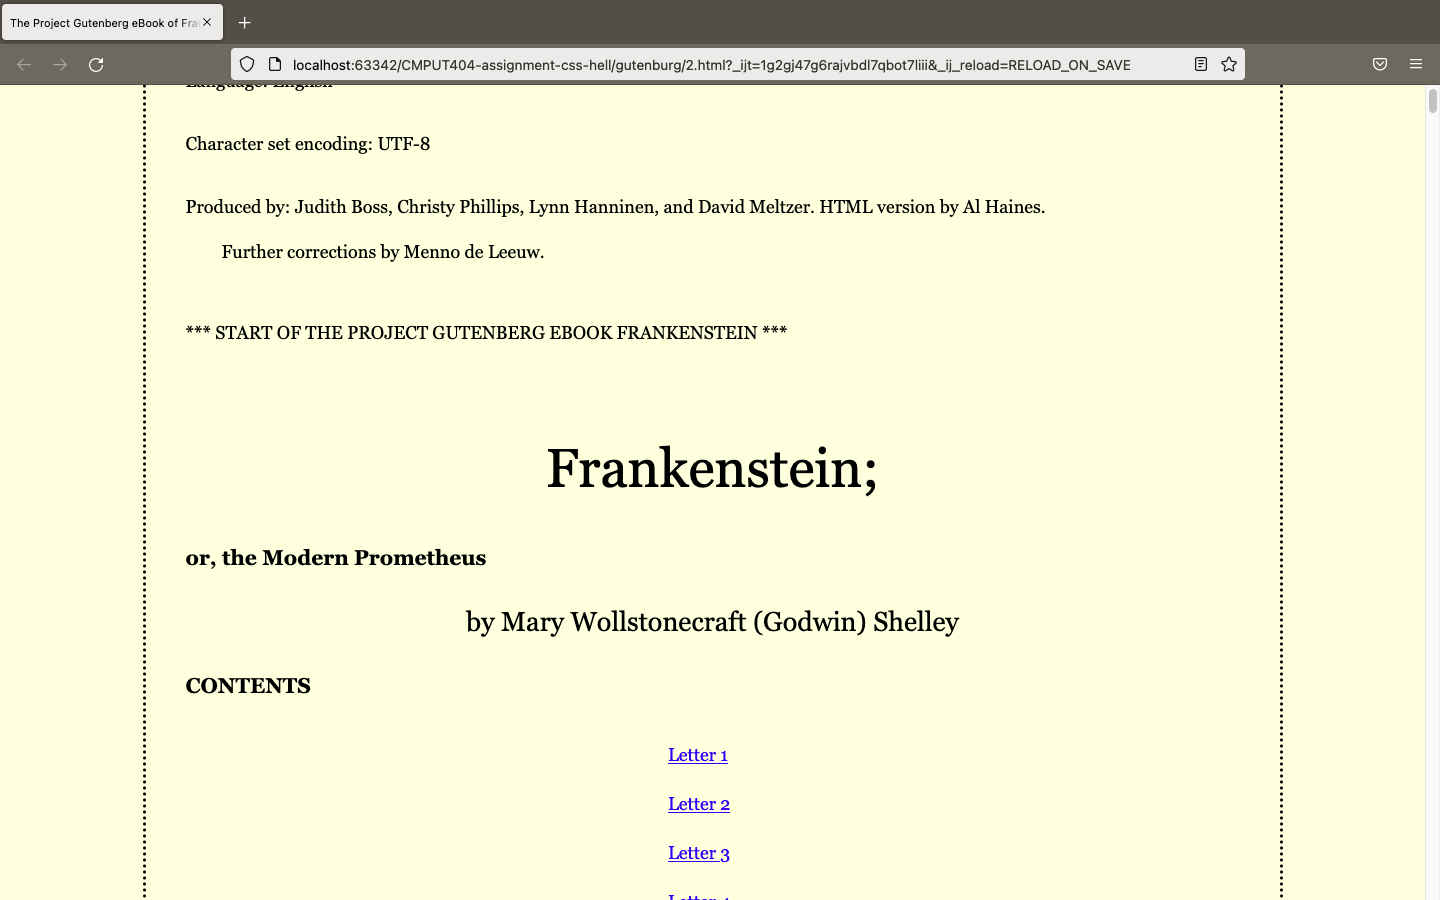
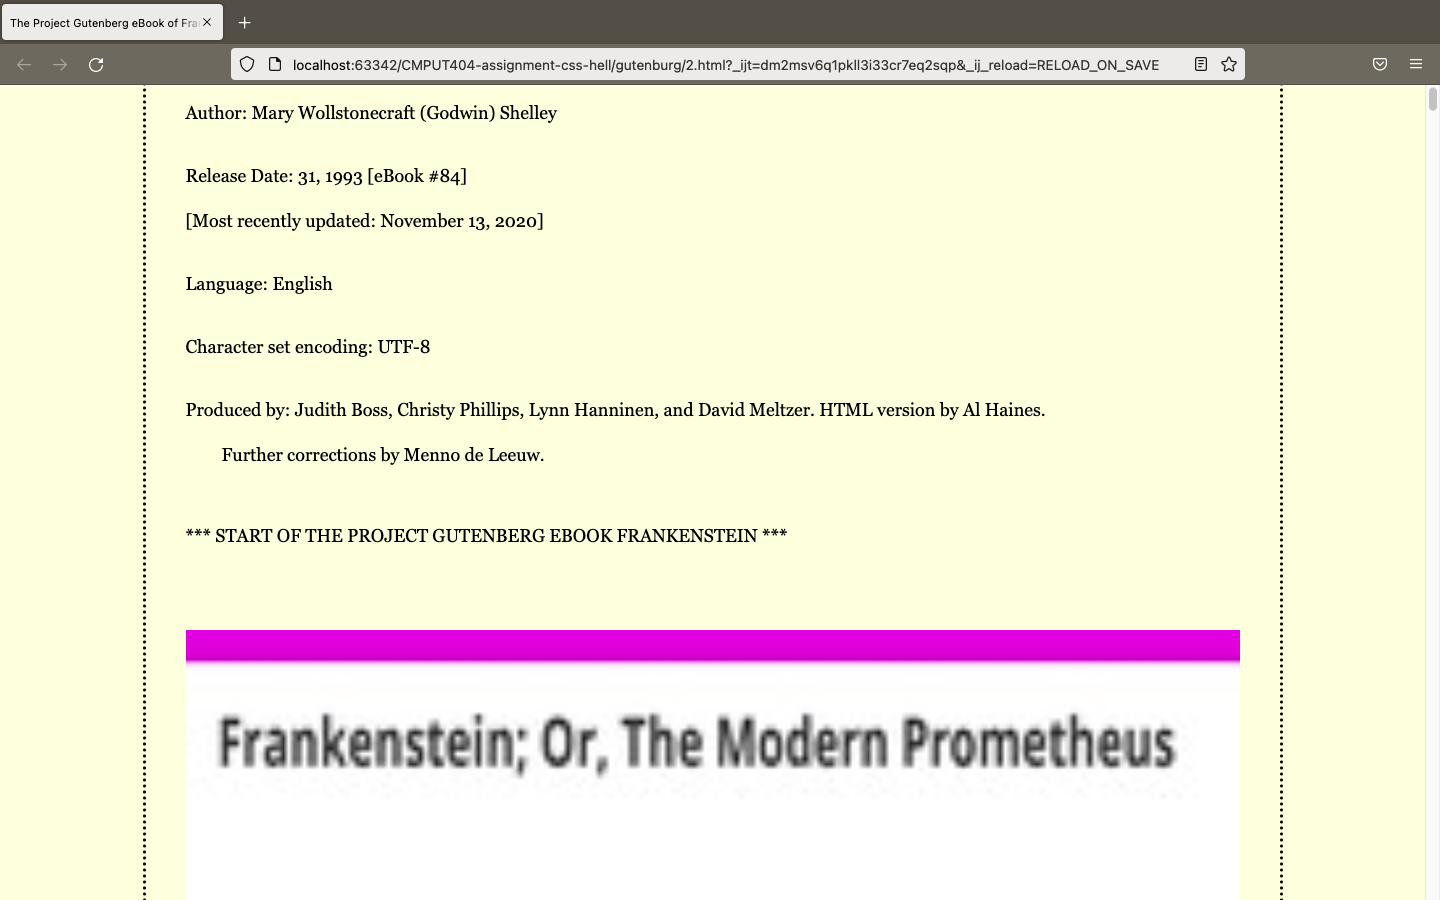
Finished

diff --git a/gutenburg/2.html b/gutenburg/2.html
@@ -1,4 +1,3 @@
-
 <!DOCTYPE html PUBLIC "-//W3C//DTD XHTML 1.0 Strict//EN"
 "http://www.w3.org/TR/xhtml1/DTD/xhtml1-strict.dtd">
 <html xmlns="http://www.w3.org/1999/xhtml" xml:lang="en" lang="en">
@@ -6,7 +5,8 @@
 <meta http-equiv="Content-Type" content="text/html;charset=utf-8" />
 <meta http-equiv="Content-Style-Type" content="text/css" />
 <title>The Project Gutenberg eBook of Frankenstein, by Mary Wollstonecraft (Godwin) Shelley</title>
-    <link rel="stylesheet" href="new_style.css" />
+<link rel="coverpage" href="images/second.jpg" />
+<link rel="stylesheet" href="new_style.css" />
 
 </head>
 
@@ -32,7 +32,7 @@ or, The Modern Prometheus</div>
 <div style='display:block; margin-left:2em; text-indent:-2em'>Produced by: Judith Boss, Christy Phillips, Lynn Hanninen, and David Meltzer. HTML version by Al Haines.<br />
 Further corrections by Menno de Leeuw.</div>
 <div style='margin-top:2em;margin-bottom:4em'>*** START OF THE PROJECT GUTENBERG EBOOK FRANKENSTEIN ***</div>
-
+<img src="images/second.jpg" style="width:100%;" alt="cover" />
 <h1>
 Frankenstein;
 </h1>
